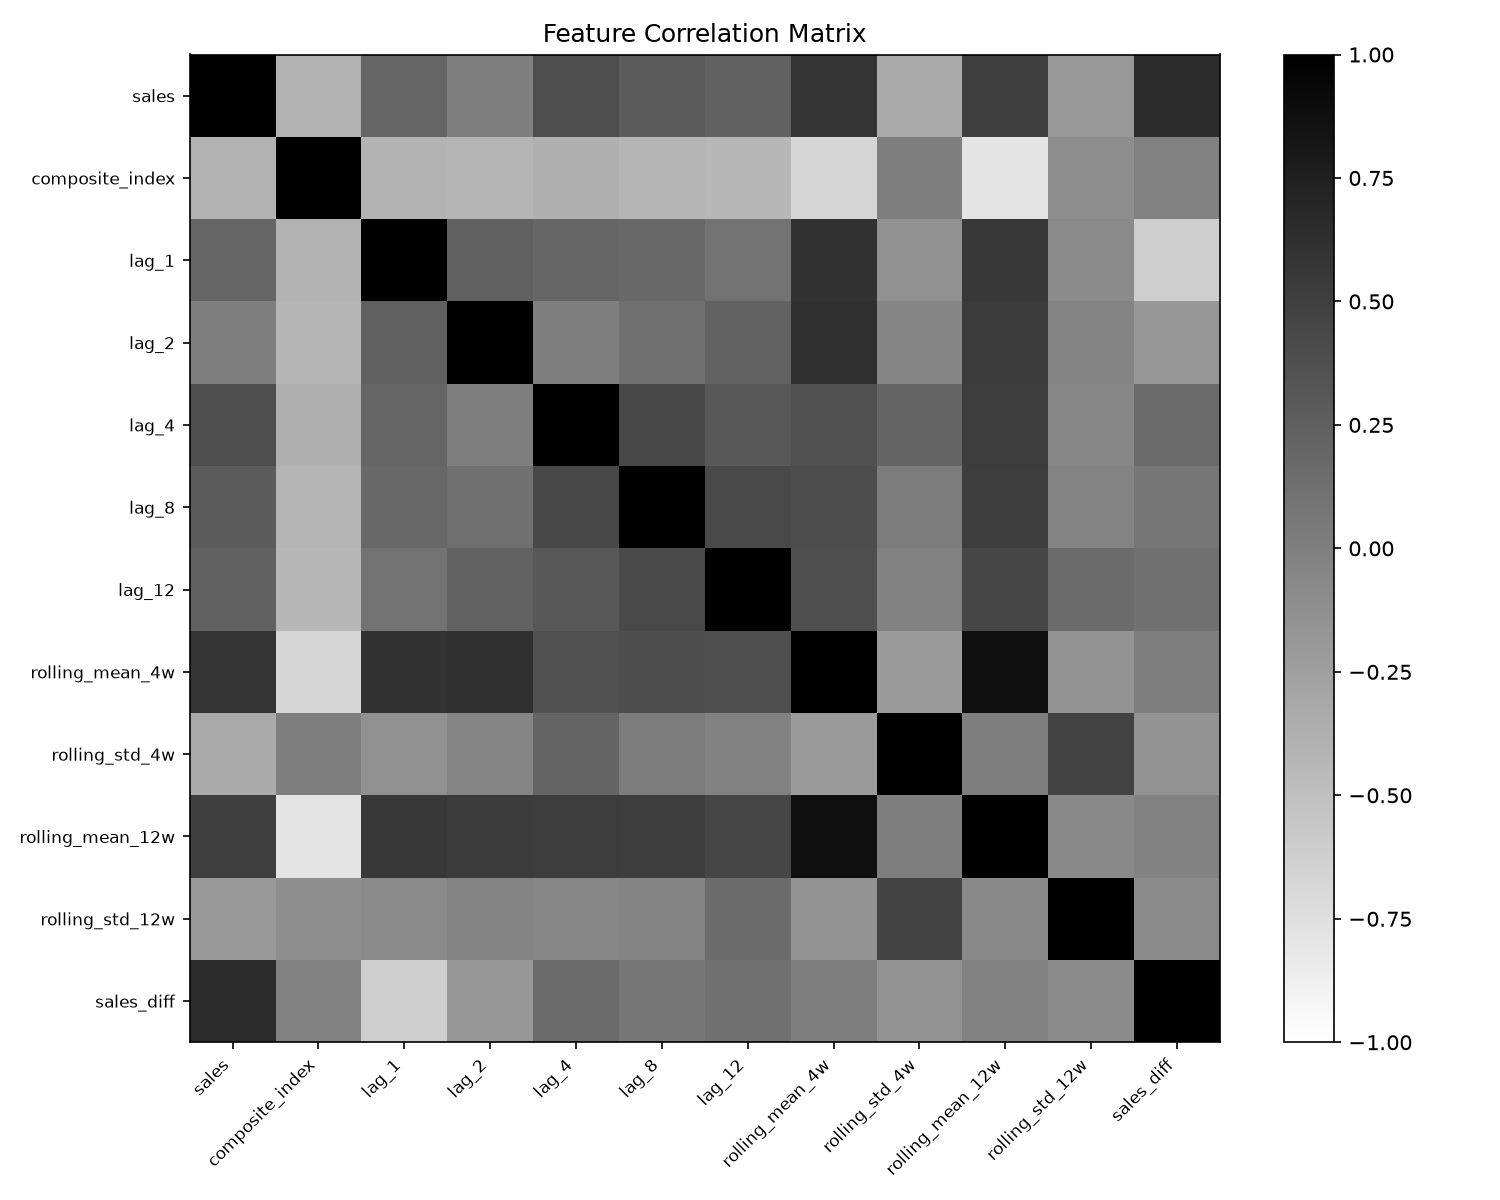
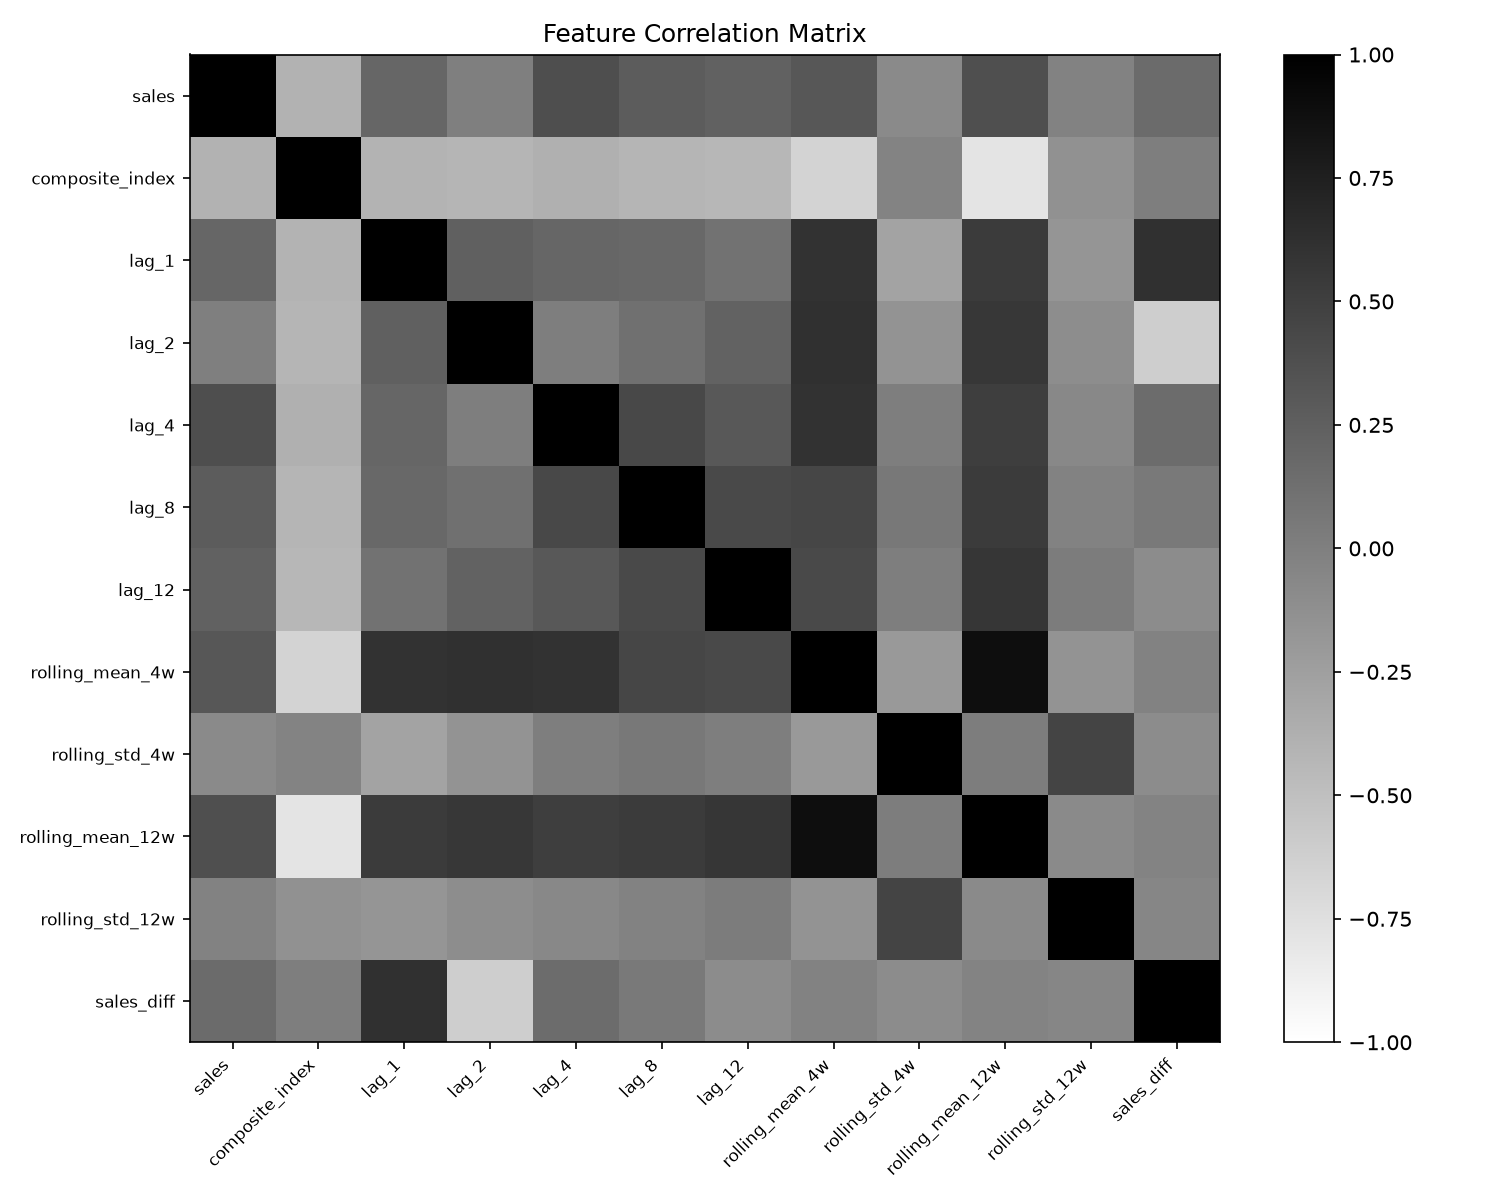
random forest

diff --git a/src/model_random_forest.py b/src/model_random_forest.py
@@ -1,0 +1,52 @@
+"""STEP 6: Random Forest (Bab III §3.1.5)."""
+import json
+import numpy as np
+import pandas as pd
+import joblib
+import matplotlib.pyplot as plt
+from sklearn.ensemble import RandomForestRegressor
+from sklearn.model_selection import RandomizedSearchCV, TimeSeriesSplit
+from config import (DATA_PROCESSED, RESULTS_TABLES, RESULTS_FIGURES, RESULTS_MODELS,
+                    RF_N_ITER, RF_CV_FOLDS, RANDOM_SEED)
+
+
+def main():
+    train = pd.read_csv(DATA_PROCESSED / "train_scaled.csv", index_col=0, parse_dates=True)
+    val = pd.read_csv(DATA_PROCESSED / "val_scaled.csv", index_col=0, parse_dates=True)
+    test = pd.read_csv(DATA_PROCESSED / "test_scaled.csv", index_col=0, parse_dates=True)
+
+    feats = [c for c in train.columns if c != "sales"]
+    Xtr = pd.concat([train[feats], val[feats]]); ytr = pd.concat([train["sales"], val["sales"]])
+    Xte, yte = test[feats], test["sales"]
+
+    param_dist = {
+        "n_estimators": [100, 200, 300, 500],
+        "max_depth": [None, 5, 10, 20, 30],
+        "min_samples_split": [2, 5, 10],
+        "min_samples_leaf": [1, 2, 4],
+        "max_features": ["sqrt", "log2", 1.0],
+    }
+    search = RandomizedSearchCV(
+        RandomForestRegressor(bootstrap=True, random_state=RANDOM_SEED),
+        param_dist, n_iter=RF_N_ITER, cv=TimeSeriesSplit(n_splits=RF_CV_FOLDS),
+        scoring="neg_mean_absolute_percentage_error", random_state=RANDOM_SEED, n_jobs=-1,
+    )
+    search.fit(Xtr, ytr)
+    best = search.best_estimator_
+    with open(RESULTS_TABLES / "rf_best_params.json", "w") as f:
+        json.dump(search.best_params_, f, indent=2)
+
+    preds = best.predict(Xte)
+    pd.DataFrame({"actual": yte.values, "pred": preds}, index=test.index).to_csv(
+        RESULTS_TABLES / "rf_predictions.csv")
+    joblib.dump(best, RESULTS_MODELS / "rf_model.pkl")
+
+    imp = pd.Series(best.feature_importances_, index=feats).sort_values()
+    fig, ax = plt.subplots(figsize=(8, 6))
+    imp.plot.barh(ax=ax, color="gray"); ax.set_title("RF Feature Importance (MDI)")
+    plt.tight_layout(); plt.savefig(RESULTS_FIGURES / "fig_4_7_rf_feature_importance.png", dpi=150); plt.close()
+    print("Best RF params:", search.best_params_)
+
+
+if __name__ == "__main__":
+    main()

diff --git a/src/preprocessing.py b/src/preprocessing.py
@@ -81,19 +81,25 @@ def integrate_google_trends(weekly_sales, trends_df):
 
 
 def create_features(df):
-    """Feature engineering (Bab III §3.1.3 sub-step 5 / §3.2.2)."""
+    """Feature engineering (Bab III §3.1.3 sub-step 5 / §3.2.2).
+
+    Leakage-free: every series-derived feature uses only information available
+    *before* the week being predicted. Rolling windows are shifted by 1 so they
+    never include sales[t], and sales_diff is the last *observed* change
+    (sales[t-1] - sales[t-2]). Lag features are already shifted correctly.
+    """
     df = df.copy()
     for lag in [1, 2, 4, 8, 12]:
         df[f"lag_{lag}"] = df["sales"].shift(lag)
-    df["rolling_mean_4w"] = df["sales"].rolling(4).mean()
-    df["rolling_std_4w"] = df["sales"].rolling(4).std()
-    df["rolling_mean_12w"] = df["sales"].rolling(12).mean()
-    df["rolling_std_12w"] = df["sales"].rolling(12).std()
+    df["rolling_mean_4w"] = df["sales"].rolling(4).mean().shift(1)
+    df["rolling_std_4w"] = df["sales"].rolling(4).std().shift(1)
+    df["rolling_mean_12w"] = df["sales"].rolling(12).mean().shift(1)
+    df["rolling_std_12w"] = df["sales"].rolling(12).std().shift(1)
     df["week_of_year"] = df.index.isocalendar().week.astype(int)
     df["month"] = df.index.month
     df["quarter"] = df.index.quarter
     df["year"] = df.index.year
-    df["sales_diff"] = df["sales"].diff()
+    df["sales_diff"] = df["sales"].diff().shift(1)
     df.dropna(inplace=True)
     return df
 